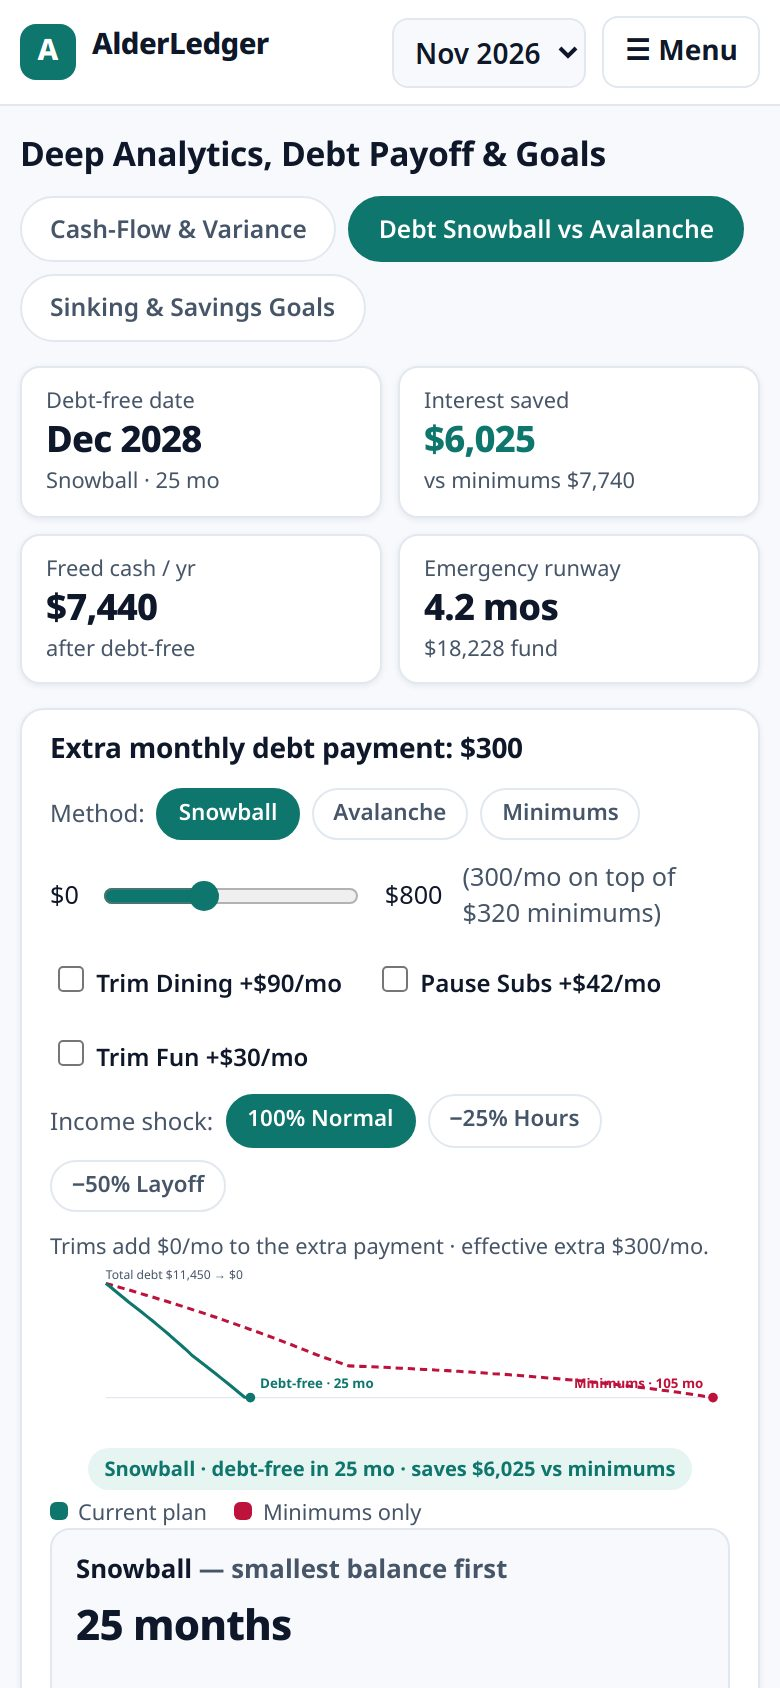
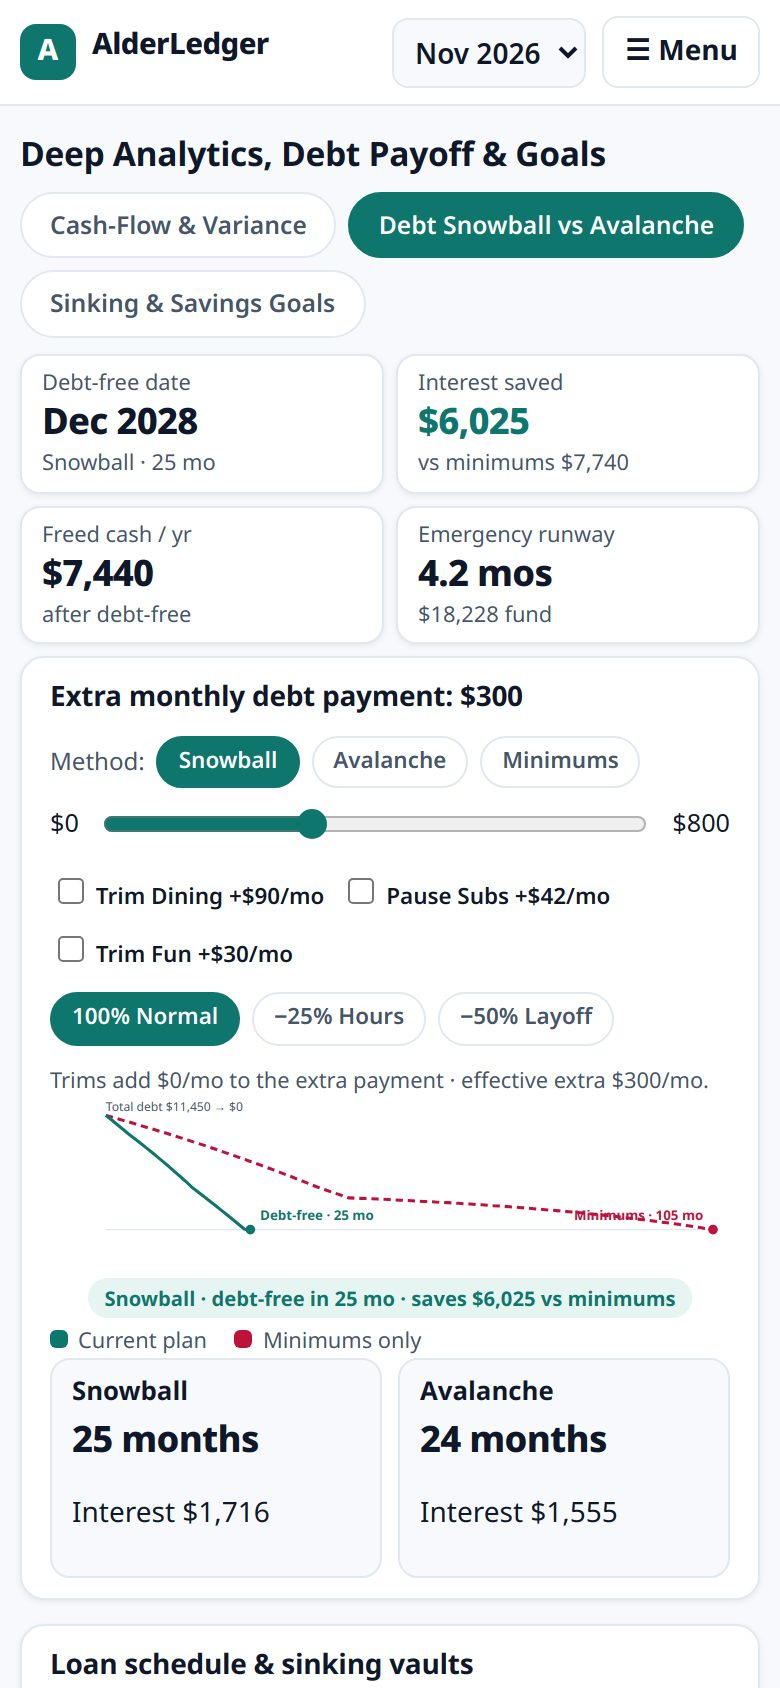
AlderLedger V4: no clipped inputs, no mid-row folds, strip surfaces payday + splits
- Allocator inputs widened to 62px with the number spinners removed:
  Housing now shows 1950 in full (was clipped to 195). Ranked table
  tuned so its 7th row ends exactly at the 800px fold.
- Variance tab bottom is now a Reconciled Cash-Flow & Register Strip:
  payday & bill funding snapshot (Nov 2 +$4,800, Nov 12 Low $2,410,
  Nov 16 +$1,920, Dec rent buffer $4,490) with live Mark Paid chips
  and a 12/12 Audit PASS link to #/audit, plus the split-receipt
  register (Corner Market $197, Target $171) with Cleared/Scheduled
  pills, Download CSV and + Split Receipt to #/ledger. The category
  table it replaces is covered by the envelopes ranked table.
- Debt tab: the loan schedule & vaults card moved into the grid-2
  right column (the duplicate Your-debts card is merged into it) and
  the mobile debt view is tightened so the Snowball card and the
  schedule heading both fit the 844px frame.
- Audit still 12/12, 0 console/page/network errors, mobile scrollWidth
  390 on all routes.

Changed region(s): [[0.0615, 0.1232, 0.9231, 1.0], [0.4308, 0.0924, 0.9538, 0.154], [0.8615, 0.4621, 0.9231, 0.4929]]

diff --git a/app/views/analytics.js b/app/views/analytics.js
@@ -2,7 +2,7 @@
 // Three sub-tabs: variance charts, the snowball-vs-avalanche simulator,
 // and the sinking-fund goals, plus the full category / bills table.
 
-import { DEBTS, GOALS, VAULTS, simulateDebt, fmt, pct } from '../data.js';
+import { DEBTS, GOALS, VAULTS, BILLS, CUSHION, INCOME, simulateDebt, fmt, pct } from '../data.js';
 import { varianceDonut, trendChart, debtCurve } from '../charts.js';
 import { t } from '../i18n.js';
 
@@ -22,7 +22,55 @@ const SHOCKS = [
   { v: 0.5, label: '−50% Layoff' },
 ];
 
-export function renderAnalytics(state, s) {
+const MONTHS_SHORT = ['Jan', 'Feb', 'Mar', 'Apr', 'May', 'Jun', 'Jul', 'Aug', 'Sep', 'Oct', 'Nov', 'Dec'];
+
+// Reconciled Cash-Flow & Register Strip (variance tab, bottom half): the
+// payday-to-bill funding snapshot and the split-receipt register, so the
+// two deep features built in V2 are visible in the showcase shot instead of
+// sitting only on their uncaptured routes. All controls are live: the bill
+// chips toggle Paid / Scheduled, the register pills toggle Cleared /
+// Scheduled, and the links go to the full #/audit and #/ledger pages.
+function registerStrip(state, s, audit) {
+  const nov = INCOME['2026-11'].sources;
+  const maya = nov.find((x) => x.name.includes('Maya'));
+  const jordan = nov.find((x) => x.name.includes('Jordan'));
+  const rent = BILLS.find((b) => b.id === 'rent');
+  const decBuffer = CUSHION[29] + maya.amount - rent.amount;
+  const chips = BILLS.filter((b) => b.status === 'due').map((b) => {
+    const paid = state.user.paidBills.includes(b.id);
+    const short = b.name.split(' — ')[0];
+    return `<button class="strip-chip${paid ? ' paid' : ''}" data-action="cal-bill" data-bill="${b.id}">${paid ? '✓ ' : ''}${esc(short)} ${fmt(b.amount)} · ${paid ? 'Paid' : `due ${Number(b.due.slice(8, 10))} Nov`}</button>`;
+  }).join('');
+  const dLabel = (d) => `${Number(d.slice(8, 10))} ${MONTHS_SHORT[Number(d.slice(5, 7)) - 1]}`;
+  const envName = (id) => { const e = s.envelopes.find((x) => x.id === id); return e ? e.name : id; };
+  // Short labels (same convention as the allocator) so a split row's
+  // "Split: … · Balanced $0.00 ✓" fits on one line without ellipsis.
+  const SHORT_ENV = { 'Gifts & Giving': 'Gifts', 'Dining & Takeout': 'Dining Out', 'Extra Debt Payment': 'Extra Debt', 'Fun & Streaming': 'Fun & Media' };
+  const shortEnv = (id) => SHORT_ENV[envName(id)] || envName(id);
+  const splits = s.txns.filter((x) => x.splits);
+  const recent = [...s.txns].filter((x) => !x.splits && x.type === 'expense').sort((a, b) => b.date.localeCompare(a.date) || b.amount - a.amount).slice(0, 2);
+  const regRows = [...splits, ...recent].sort((a, b) => b.date.localeCompare(a.date) || b.amount - a.amount).slice(0, 4).map((x) => {
+    const sub = x.splits
+      ? `Split: ${x.splits.map((sp) => shortEnv(sp.envelope)).join(' + ')} · Balanced $0.00 ✓`
+      : esc(envName(x.envelope));
+    return `<div class="reg-row"><span class="reg-date">${dLabel(x.date)}</span><span class="reg-payee"><b>${esc(x.payee)}</b> <span class="muted">· ${sub}</span></span><b class="num">${fmt(x.amount)}</b><button class="pill-btn status-pill${x.status === 'scheduled' ? ' scheduled' : ''}" data-action="txn-status" data-id="${x.id}" title="Click to toggle cleared / scheduled">${x.status === 'scheduled' ? 'Scheduled' : 'Cleared ✓'}</button></div>`;
+  }).join('');
+  const auditOk = audit && audit.passed === audit.total;
+  return `<section class="card strip-card"><div class="card-head"><h2>Reconciled cash-flow &amp; register</h2><span class="pill">Nov 2026 · to 20 Nov</span></div>
+    <div class="sched-cols">
+      <div><h3>Payday &amp; bill funding</h3>
+        <p class="strip-lines"><b>Nov 2</b> +${fmt(maya.amount)} payday · <b>Nov 12</b> Low ${fmt(CUSHION[11])} · <b>Nov 16</b> +${fmt(jordan.amount)} payday<br>Dec rent buffer: <b class="good">${fmt(decBuffer)}</b> after the 2 Dec payday</p>
+        <div class="strip-chips">${chips}</div>
+        <p class="strip-link"><a href="#/audit">${audit ? `${audit.passed}/${audit.total} Audit ${auditOk ? 'PASS ✓' : '— check'}` : 'Audit'} · Full Calendar →</a></p>
+      </div>
+      <div><h3>Split-receipt register</h3>
+        ${regRows}
+        <div class="strip-actions"><button class="btn btn-sm" data-action="export" data-kind="csv">Download CSV</button><a class="btn btn-sm btn-primary" href="#/ledger">+ Split Receipt</a></div>
+      </div>
+    </div></section>`;
+}
+
+export function renderAnalytics(state, s, audit) {
   const lang = state.lang;
   const tab = state.analyticsTab || 'variance';
   const tabs = [['variance', 'Cash-Flow & Variance'], ['debt', 'Debt Snowball vs Avalanche'], ['goals', 'Sinking & Savings Goals']];
@@ -34,7 +82,8 @@ export function renderAnalytics(state, s) {
       <p class="fineprint">Hover a slice for planned vs actual. Housing is the largest envelope at ${fmt(s.spent.housing)}; Dining is the only one over plan, by ${fmt(Math.max(0, s.spent.dining - s.planned.dining))}.</p></div>
       <div class="card"><div class="card-head"><h2>12-month cash-flow trend</h2></div>${trendChart()}
       <p class="fineprint">November is partial (to 20 Nov). April’s income spike is the $1,900 tax refund; August’s spending spike is back-to-school; October carries the $310 annual insurance premium.</p></div>
-    </section>`;
+    </section>
+    ${registerStrip(state, s, audit)}`;
   } else if (tab === 'debt') {
     const method = state.debtMethod || 'snowball';
     const slider = state.debtExtra ?? 30000;
@@ -89,25 +138,22 @@ export function renderAnalytics(state, s) {
     <section class="grid-2">
       <div class="card"><div class="card-head"><h2>Extra monthly debt payment: <b>${fmt(extra)}</b></h2></div>
         <div class="method-row"><span class="muted">Method:</span>${[['snowball', 'Snowball'], ['avalanche', 'Avalanche'], ['minimums', 'Minimums']].map(([k, label]) => `<button class="pill-btn${method === k ? ' on' : ''}" data-action="debt-method" data-method="${k}">${label}</button>`).join('')}</div>
-        <label class="slider-row"> $0 <input type="range" min="0" max="80000" step="2500" value="${slider}" data-action="debt-extra" aria-label="Extra monthly debt payment in cents"${minMethod ? ' disabled' : ''}> $800 <span class="muted">(${(slider / 100).toFixed(0)}/mo on top of ${fmt(32000)} minimums)</span></label>
+        <label class="slider-row"> $0 <input type="range" min="0" max="80000" step="2500" value="${slider}" data-action="debt-extra" aria-label="Extra monthly debt payment in cents"${minMethod ? ' disabled' : ''}> $800 <span class="muted slider-note">(${(slider / 100).toFixed(0)}/mo on top of ${fmt(32000)} minimums)</span></label>
         <div class="trim-row">${TRIMS.map((x) => `<label class="trim"><input type="checkbox" data-action="debt-trim" data-trim="${x.id}"${state.debtTrims && state.debtTrims[x.id] ? ' checked' : ''}${minMethod ? ' disabled' : ''}> ${esc(x.label)}</label>`).join('')}</div>
-        <div class="shock-row"><span class="muted">Income shock:</span>${SHOCKS.map((x) => `<button class="pill-btn${shock === x.v ? ' on' : ''}" data-action="debt-shock" data-shock="${x.v}">${esc(x.label)}</button>`).join('')}</div>
+        <div class="shock-row"><span class="muted shock-label">Income shock:</span>${SHOCKS.map((x) => `<button class="pill-btn${shock === x.v ? ' on' : ''}" data-action="debt-shock" data-shock="${x.v}">${esc(x.label)}</button>`).join('')}</div>
         <p class="fineprint">${minMethod ? 'Minimums: the slider and trims are off — only the $320/mo minimums are paid.' : `Trims add ${fmt(trimSum)}/mo to the extra payment${incomeLoss ? ` · shock takes ${fmt(incomeLoss)}/mo off it` : ''} · effective extra ${fmt(extra)}/mo.`}</p>
         ${debtCurve(cur, minSim.snowball, callout)}
         <div class="debt-cards">
-          <div class="debt-card"><h3>Snowball <span class="muted">— smallest balance first</span></h3><p class="debt-big">${sim.snowball.months} months</p><p>Interest ${fmt(sim.snowball.interest)} · order: ${sim.snowballOrder.join(' → ')}</p></div>
-          <div class="debt-card"><h3>Avalanche <span class="muted">— highest APR first</span></h3><p class="debt-big">${sim.avalanche.months} months</p><p>Interest ${fmt(sim.avalanche.interest)} · order: ${sim.avalancheOrder.join(' → ')}</p></div>
+          <div class="debt-card"><h3>Snowball <span class="muted">— smallest balance first</span></h3><p class="debt-big">${sim.snowball.months} months</p><p>Interest ${fmt(sim.snowball.interest)} <span class="order-line">· order: ${sim.snowballOrder.join(' → ')}</span></p></div>
+          <div class="debt-card"><h3>Avalanche <span class="muted">— highest APR first</span></h3><p class="debt-big">${sim.avalanche.months} months</p><p>Interest ${fmt(sim.avalanche.interest)} <span class="order-line">· order: ${sim.avalancheOrder.join(' → ')}</span></p></div>
         </div>
-        <p class="fineprint">${extra > 0 ? `Avalanche saves ${fmt(save)} of interest and finishes ${sim.snowball.months - sim.avalanche.months} month${sim.snowball.months - sim.avalanche.months === 1 ? '' : 's'} sooner than snowball at ${fmt(extra)}/mo extra. With no extra payment, either method takes 105 months and ${fmt(774030)} of interest — the extra payment is the whole game.` : 'Move the slider or add a trim: with no extra payment, either method takes 105 months and $7,740 of interest.'}${shockNote ? `<br>${esc(shockNote)}` : ''}</p>
+        <p class="fineprint hide-m">${minMethod ? 'Minimums only: with no extra payment, either method takes 105 months and $7,740 of interest — the extra payment is the whole game.' : extra > 0 ? `Avalanche saves ${fmt(save)} of interest and finishes ${sim.snowball.months - sim.avalanche.months} month${sim.snowball.months - sim.avalanche.months === 1 ? '' : 's'} sooner than snowball at ${fmt(extra)}/mo extra. With no extra payment, either method takes 105 months and ${fmt(774030)} of interest — the extra payment is the whole game.` : 'Move the slider or add a trim: with no extra payment, either method takes 105 months and $7,740 of interest.'}</p>${shockNote ? `<p class="fineprint">${esc(shockNote)}</p>` : ''}
       </div>
-      <div class="card"><div class="card-head"><h2>Your debts · ${fmt(DEBTS.reduce((a, d) => a + d.balance, 0))} total</h2></div>
-        ${DEBTS.map((d) => `<div class="debt-row"><span><b>${esc(d.name)}</b><br><span class="muted">${(d.apr * 100).toFixed(2)}% APR · min ${fmt(d.min)}/mo</span></span><b>${fmt(d.balance)}</b></div>`).join('')}
-        <p class="fineprint">Minimums alone are ${fmt(32000)}/mo. The $300/mo extra in the November plan is the Debt Extra envelope (${fmt(s.spent.debtextra)} moved to 20 Nov).</p></div>
-    </section>
-    <section class="card"><div class="card-head"><h2>Loan schedule &amp; sinking vaults</h2><span class="pill">${esc(methodLabel)} · debt-free ${esc(freeDate)}</span></div>
-      <div class="sched-cols"><div><h3>Payoff order — ${esc(methodLabel.toLowerCase())}</h3>${schedRows}</div>
-      <div><h3>Sinking vaults — irregular bills, pre-funded</h3>${vaultRows}</div></div>
-      <p class="fineprint">The schedule follows the ${esc(methodLabel.toLowerCase())} order at ${fmt(extra)}/mo extra. Vaults are pre-funded from the $260/mo Sinking Funds transfer — a vault behind its monthly need shows in red.</p></section>`;
+      <div class="card"><div class="card-head"><h2>Loan schedule &amp; sinking vaults</h2><span class="pill">${esc(methodLabel)} · debt-free ${esc(freeDate)}</span></div>
+        <div class="sched-cols"><div><h3>Payoff order — ${esc(methodLabel.toLowerCase())}</h3>${schedRows}</div>
+        <div><h3>Sinking vaults — irregular bills, pre-funded</h3>${vaultRows}</div></div>
+        <p class="fineprint">The schedule follows the ${esc(methodLabel.toLowerCase())} order at ${fmt(extra)}/mo extra. Minimums alone are ${fmt(32000)}/mo; the $300/mo extra in the November plan is the Debt Extra envelope (${fmt(s.spent.debtextra)} moved to 20 Nov). Vaults are pre-funded from the $260/mo Sinking Funds transfer — a vault behind its monthly need shows in red.</p></div>
+    </section>`;
   } else {
     const vaults = VAULTS.map((v) => {
       const monthsLeft = Math.max(1, (Number(v.due.slice(0, 4)) - 2026) * 12 + Number(v.due.slice(5, 7)) - 11);
@@ -128,19 +174,8 @@ export function renderAnalytics(state, s) {
       <div class="debt-cards vaults">${vaults}</div>
       <p class="fineprint">Vaults are the irregular bills the Sinking Funds envelope pre-funds, so a $310 premium or a $2,000 trip never lands as a surprise. Holiday Travel is behind: its $760/mo need is bigger than its $120/mo share — top it up from Fun or move the trip.</p></section>`;
   }
-  const catRows = s.envelopes.map((e) => {
-    const variance = s.spent[e.id] - s.planned[e.id];
-    const rule = e.savings ? 'Save on payday · auto-transfer' : e.id === 'housing' ? 'Fixed · due 1st, autopay' : e.flexible ? 'Flexible · pace-checked weekly' : 'Fixed · due in month, autopay where offered';
-    const status = s.spent[e.id] > s.planned[e.id] ? 'Over plan' : s.planned[e.id] && s.spent[e.id] / s.planned[e.id] > 0.9 ? 'Watch — near plan' : 'On track';
-    return `<tr><td><span class="dot" style="background:${e.color}"></span>${esc(e.name)}</td><td>${esc(e.group)}</td><td class="num">${fmt(s.planned[e.id])}</td><td class="num">${fmt(s.spent[e.id])}</td><td class="num ${variance > 0 ? 'bad' : 'good'}">${variance > 0 ? '+' : ''}${fmt(variance)}</td><td class="wrap-col">${esc(rule)}</td><td><span class="pill ${variance > 0 ? 'bad' : ''}">${esc(status)}</span></td></tr>`;
-  }).join('');
   return `
   <section class="page-head"><h1>${esc(t(lang, 'analyticsTitle'))}</h1><p class="muted">${state.month === '2026-11' ? 'November 2026 · to 20 Nov' : 'Closed month'} · all figures from the same ledger as Overview</p></section>
   ${tabBar}
-  ${body}
-  <section class="card">
-    <div class="card-head"><h2>Category &amp; bills table</h2><button class="btn" data-action="export" data-kind="analytics-csv">Download Analytics CSV</button></div>
-    <div class="table-wrap"><table class="data-table"><thead><tr><th>Category</th><th>Group</th><th>Planned</th><th>Spent</th><th>Variance</th><th>Rule / Cadence &amp; Status</th><th>Status</th></tr></thead><tbody>${catRows}</tbody></table></div>
-    <p class="fineprint">The Rule column wraps instead of clipping — every word stays readable at 1280 px and on a phone.</p>
-  </section>`;
+  ${body}`;
 }

diff --git a/app/style.css b/app/style.css
@@ -138,12 +138,19 @@ main { max-width: 1240px; margin: 0 auto; padding: 12px 16px 20px; }
 /* ---- Allocator ---- */
 .alloc-5030 { display: flex; gap: 14px; flex-wrap: wrap; font-size: 0.86rem; margin-bottom: 8px; }
 .alloc-list { border-top: 1px solid var(--border); display: grid; grid-template-columns: 1fr 1fr; gap: 0 14px; }
-.alloc-row { display: grid; grid-template-columns: 1fr 72px 62px; gap: 6px; align-items: center; padding: 1px 0; border-bottom: 1px solid var(--border); font-size: 0.84rem; }
+.alloc-row { display: grid; grid-template-columns: 1fr 84px 62px; gap: 6px; align-items: center; padding: 1px 0; border-bottom: 1px solid var(--border); font-size: 0.84rem; }
 .alloc-row label { white-space: nowrap; }
 .alloc-row .pill, .alloc-row .alloc-spent { display: none; }
 .alloc-name { font-weight: 600; white-space: nowrap; overflow: hidden; text-overflow: ellipsis; }
 .alloc-name::before { content: ""; display: inline-block; width: 8px; height: 8px; border-radius: 50%; background: var(--dot, var(--teal)); margin-right: 6px; }
-.alloc-row input[type="number"] { width: 50px; border: 1px solid var(--border); background: var(--bg); border-radius: 6px; padding: 1px 5px; text-align: right; }
+.alloc-row input[type="number"] { width: 62px; border: 1px solid var(--border); background: var(--bg); border-radius: 6px; padding: 1px 5px; text-align: right; }
+/* Number spinners steal ~16px inside the field and clip 4-digit plans
+   (1950 rendered as 195); the field is typed, the spinner is not needed. */
+input[type="number"]::-webkit-inner-spin-button, input[type="number"]::-webkit-outer-spin-button { -webkit-appearance: none; margin: 0; }
+input[type="number"] { -moz-appearance: textfield; appearance: textfield; }
+/* The ranked table is tuned so its 7th row ends exactly at the 800px
+   fold: the viewport then ends below a complete row, never mid-row. */
+.ranked-card { margin-top: 13px; }
 .alloc-spent { color: var(--muted); font-size: 0.82rem; text-align: right; white-space: nowrap; }
 .add-cat { display: grid; grid-template-columns: 1fr 110px 80px auto; gap: 6px; margin-top: 10px; }
 .add-cat input[type="text"], .add-cat input[name="name"] { min-width: 0; border: 1px solid var(--border); background: var(--bg); border-radius: 8px; padding: 5px 8px; }
@@ -267,7 +274,30 @@ button.cal-bill { border: 0; cursor: pointer; font: inherit; text-align: left; w
 .curve-callout { text-align: center; margin: 6px 0 0; }
 .pill-teal { background: var(--teal-soft); color: var(--teal); border-color: transparent; }
 .sched-cols { display: grid; grid-template-columns: 1fr 1fr; gap: 0 24px; }
+/* Grid children default to min-width: auto, so a long nowrap register row
+   would blow the strip (and the debt schedule) out to its min-content
+   width on a phone — the grid-2/kpi-grid rule above exists for the same
+   reason. */
+.sched-cols > * { min-width: 0; }
 .sched-cols h3 { margin: 4px 0 2px; }
+
+/* V4: Reconciled Cash-Flow & Register Strip (variance tab bottom). Rows
+   are single-line so the whole strip ends well above the 800px fold. */
+.strip-lines { margin: 6px 0 8px; line-height: 1.5; }
+/* The register column gets the wider share so a split row's full
+   "Split: … · Balanced $0.00 ✓" fits on one line without ellipsis. */
+.strip-card .sched-cols { grid-template-columns: 0.85fr 1.15fr; }
+.strip-chips { display: flex; flex-wrap: wrap; gap: 6px; margin: 2px 0 8px; }
+.strip-chip { border: 1px solid var(--border); background: var(--bg); color: var(--text); border-radius: 999px; padding: 4px 10px; font: inherit; font-size: 0.8rem; font-weight: 600; cursor: pointer; }
+.strip-chip.paid { background: var(--teal-soft); color: var(--teal); border-color: var(--teal); }
+.strip-link { margin: 4px 0 0; font-weight: 700; }
+.strip-link a { color: var(--teal); text-decoration: none; }
+.reg-row { display: flex; align-items: center; gap: 10px; padding: 6px 0; border-top: 1px solid var(--border); }
+.reg-row:first-of-type { border-top: 0; }
+.reg-date { color: var(--muted); font-size: 0.8rem; width: 44px; flex: none; }
+.reg-payee { flex: 1; min-width: 0; white-space: nowrap; overflow: hidden; text-overflow: ellipsis; }
+.reg-row .num { font-variant-numeric: tabular-nums; white-space: nowrap; }
+.strip-actions { display: flex; gap: 8px; margin-top: 10px; }
 
 /* ---- Responsive ---- */
 @media (max-width: 1280px) {
@@ -301,7 +331,26 @@ button.cal-bill { border: 0; cursor: pointer; font: inherit; text-align: left; w
   .cmp-row { grid-template-columns: 84px 1fr 110px 52px; }
   .methods { grid-template-columns: 1fr; }
   .debt-cards { grid-template-columns: 1fr; }
-  .debt-kpis { grid-template-columns: 1fr 1fr; gap: 8px; }
+  /* V4: on the debt tab the two method cards sit side by side (the
+     payoff order is hidden here on a phone — it is in the schedule card
+     just below), and the redundant labels/notes drop away so the Snowball
+     card and the schedule preview both fit the 844px frame. */
+  .debt-cards:not(.vaults) { grid-template-columns: 1fr 1fr; gap: 8px; }
+  .debt-card h3 .muted { display: none; }
+  .debt-big { font-size: 1.3rem; }
+  .debt-kpis { grid-template-columns: 1fr 1fr; gap: 6px; margin-bottom: 6px; }
+  .debt-kpi { padding: 6px 10px; }
+  .trim { font-size: 0.8rem; }
+  .trim-row { gap: 8px; }
+  .shock-label, .slider-note, .hide-m, .order-line { display: none; }
+  /* V4: a few more pixels of mobile debt compaction so the schedule
+     card's heading is inside the 844px frame, not just its top edge. */
+  .route-analytics .page-head { margin-bottom: 6px; }
+  .subtabs { margin-bottom: 8px; }
+  .method-row { margin-bottom: 8px; }
+  .debt-card { padding: 6px 10px; }
+  .debt-card h3 { margin-bottom: 2px; }
+  .curve-callout { margin-top: 4px; }
   .sched-cols { grid-template-columns: 1fr; }
   .route-analytics .page-head .muted { display: none; }
   .route-analytics .page-head h1 { font-size: 1.2rem; }

diff --git a/app/main.js b/app/main.js
@@ -80,7 +80,7 @@ function render() {
   if (parts[1] === 'analytics') state.analyticsTab = ['variance', 'debt', 'goals'].includes(parts[2]) ? parts[2] : 'variance';
   const body = r === 'home' ? renderHome(state, s, audit)
     : r === 'envelopes' ? renderEnvelopes(state, s)
-    : r === 'analytics' ? renderAnalytics(state, s)
+    : r === 'analytics' ? renderAnalytics(state, s, audit)
     : r === 'ledger' ? renderLedger(state, s)
     : renderAudit(state, s, audit);
   app.innerHTML = renderHeader() + `<main class="route-${r}">${body}</main><footer class="foot"><span>AlderLedger · 100% offline · zero build · all figures computed from one reconciled ledger</span><span>Snapshot Fri 20 Nov 2026 · Audit ${audit.passed}/${audit.total} PASS · <a href="#/audit">Methodology [1]–[6]</a></span></footer>`;

diff --git a/app/views/envelopes.js b/app/views/envelopes.js
@@ -79,7 +79,7 @@ export function renderEnvelopes(state, s) {
       <p class="fineprint">A is teal, B is grey. November actuals run to 20 Nov; the 50/30/20 target is the full-month plan on $7,420 of income.</p></div>
     </div>
   </section>
-  <section class="card">
+  <section class="card ranked-card">
     <div class="card-head"><h2>${esc(t(lang, 'ranked'))}</h2>
       <div class="pills">${['All', 'Needs', 'Wants', 'Savings & Debt'].map((g) => `<button class="pill-btn${state.groupFilter === g ? ' on' : ''}" data-action="group" data-group="${g}">${esc(t(lang, g === 'All' ? 'all' : g === 'Needs' ? 'needs' : g === 'Wants' ? 'wants' : 'savings'))}</button>`).join('')}</div>
     </div>
